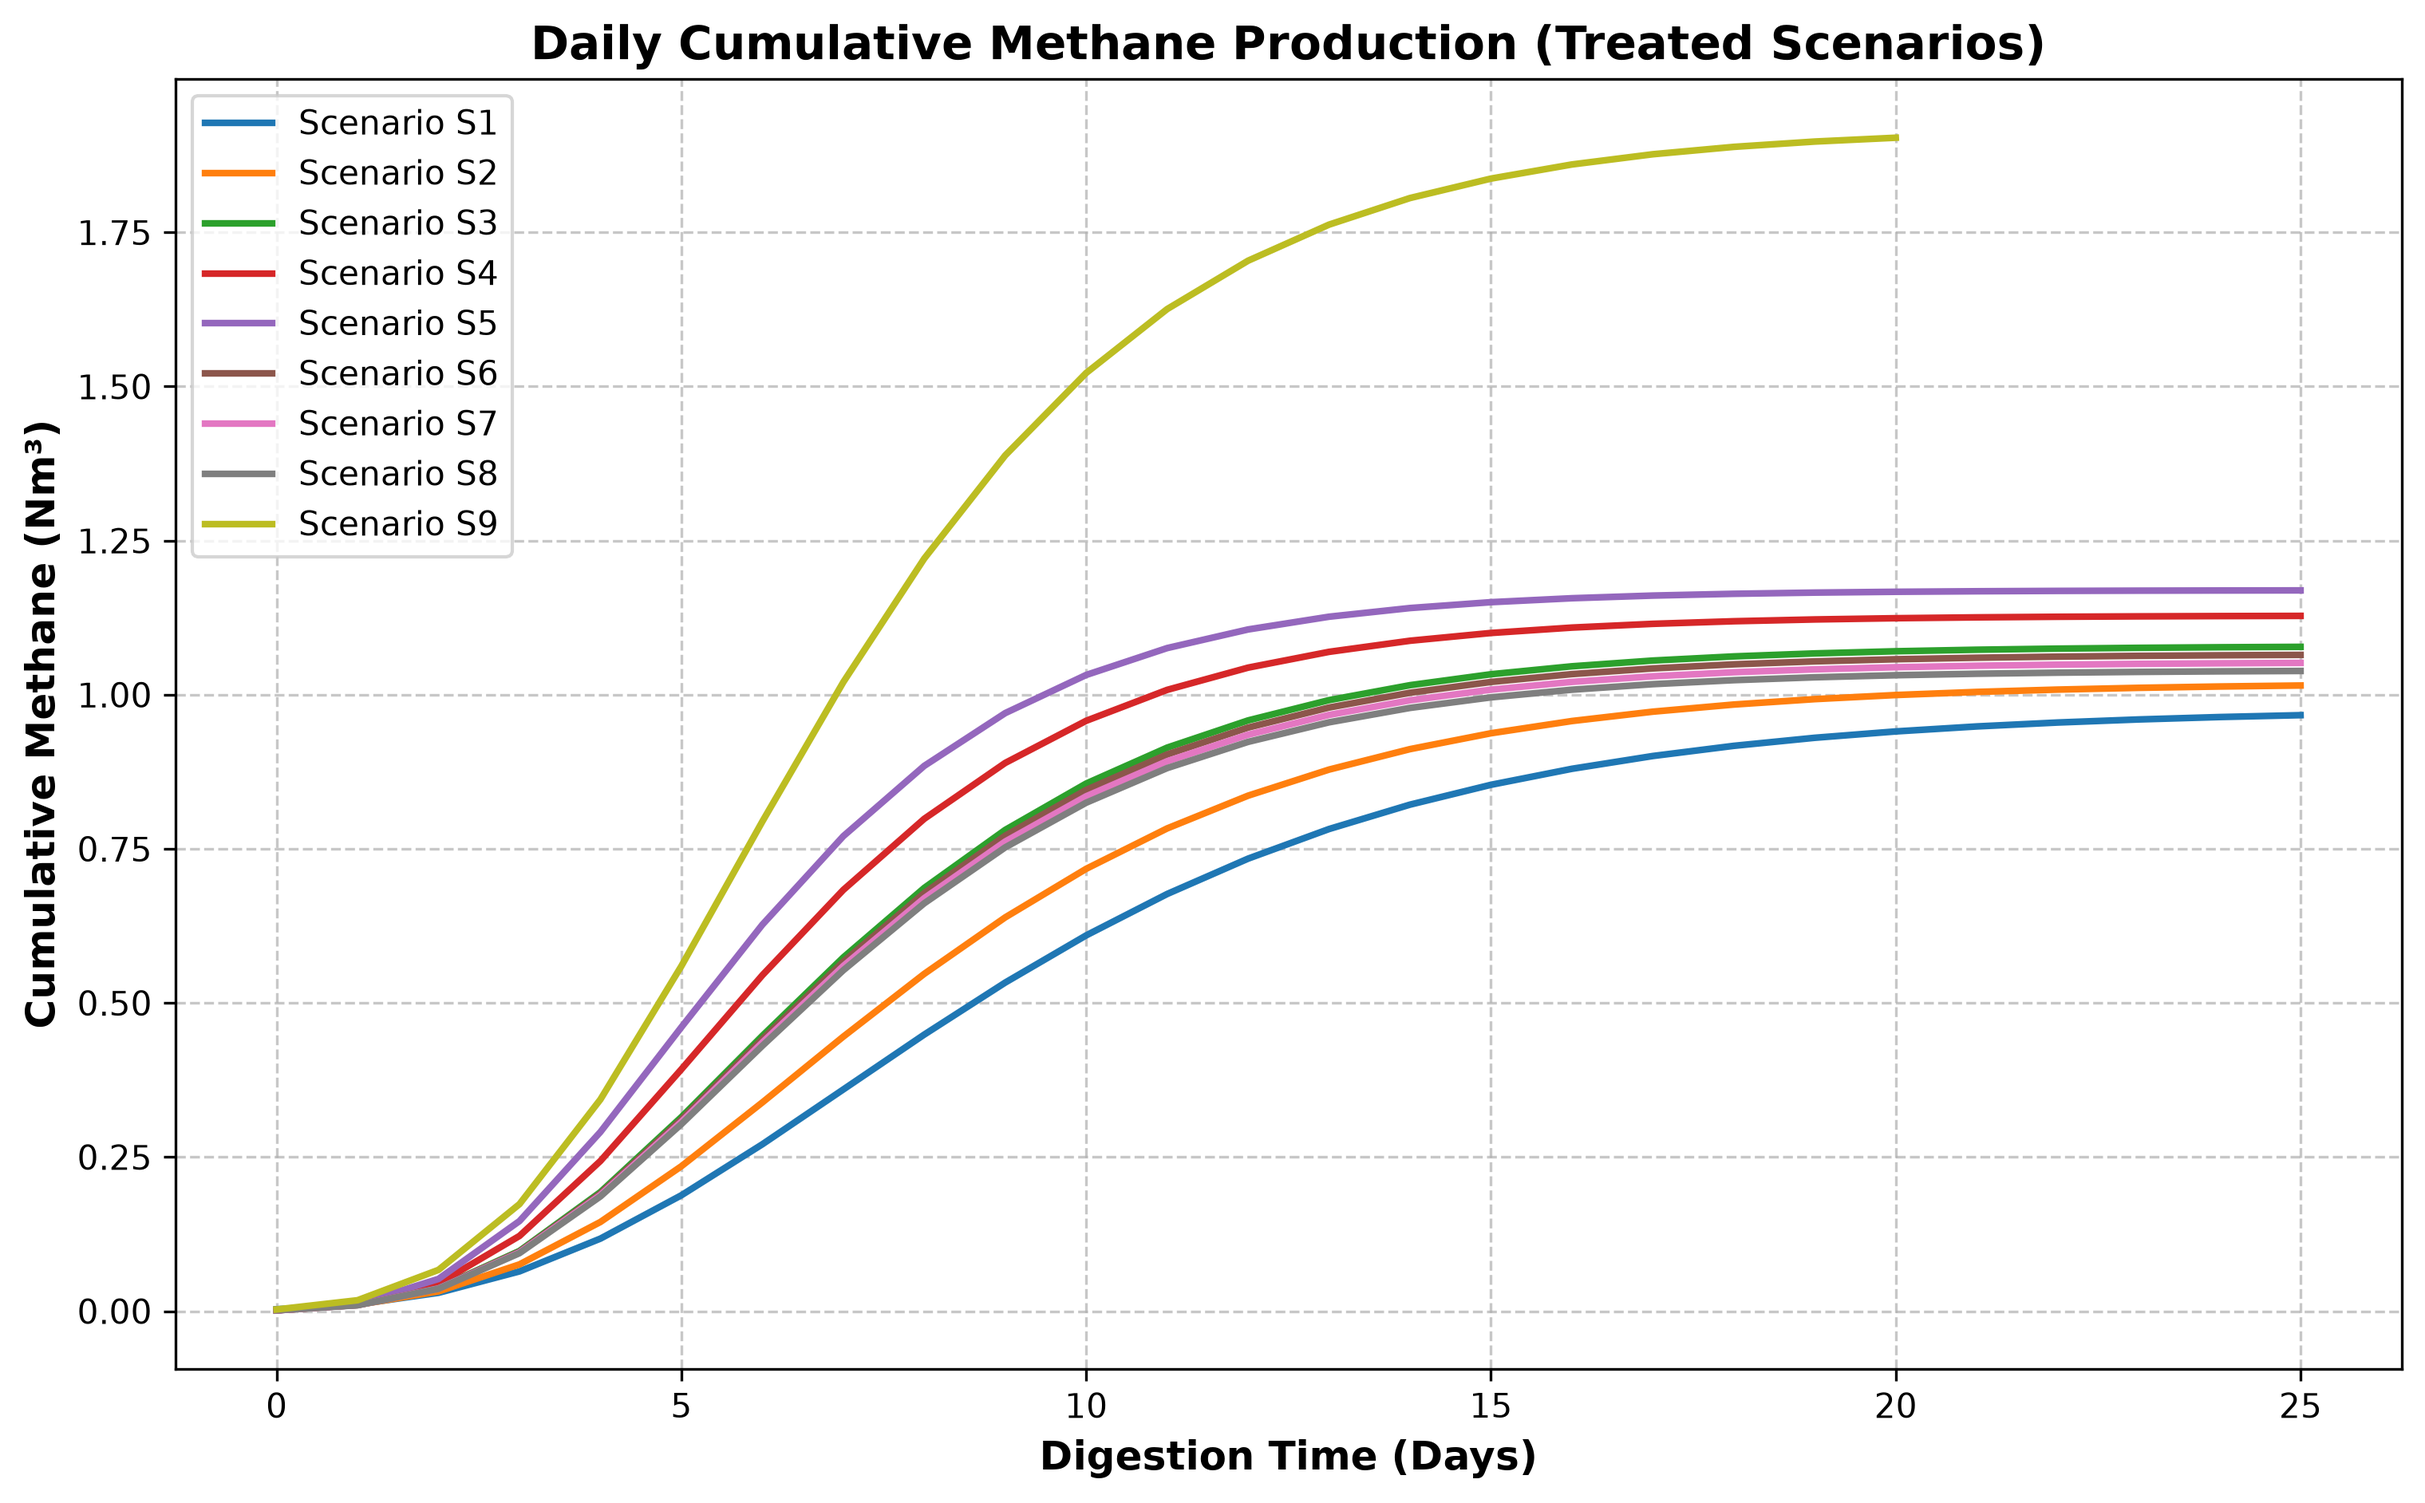
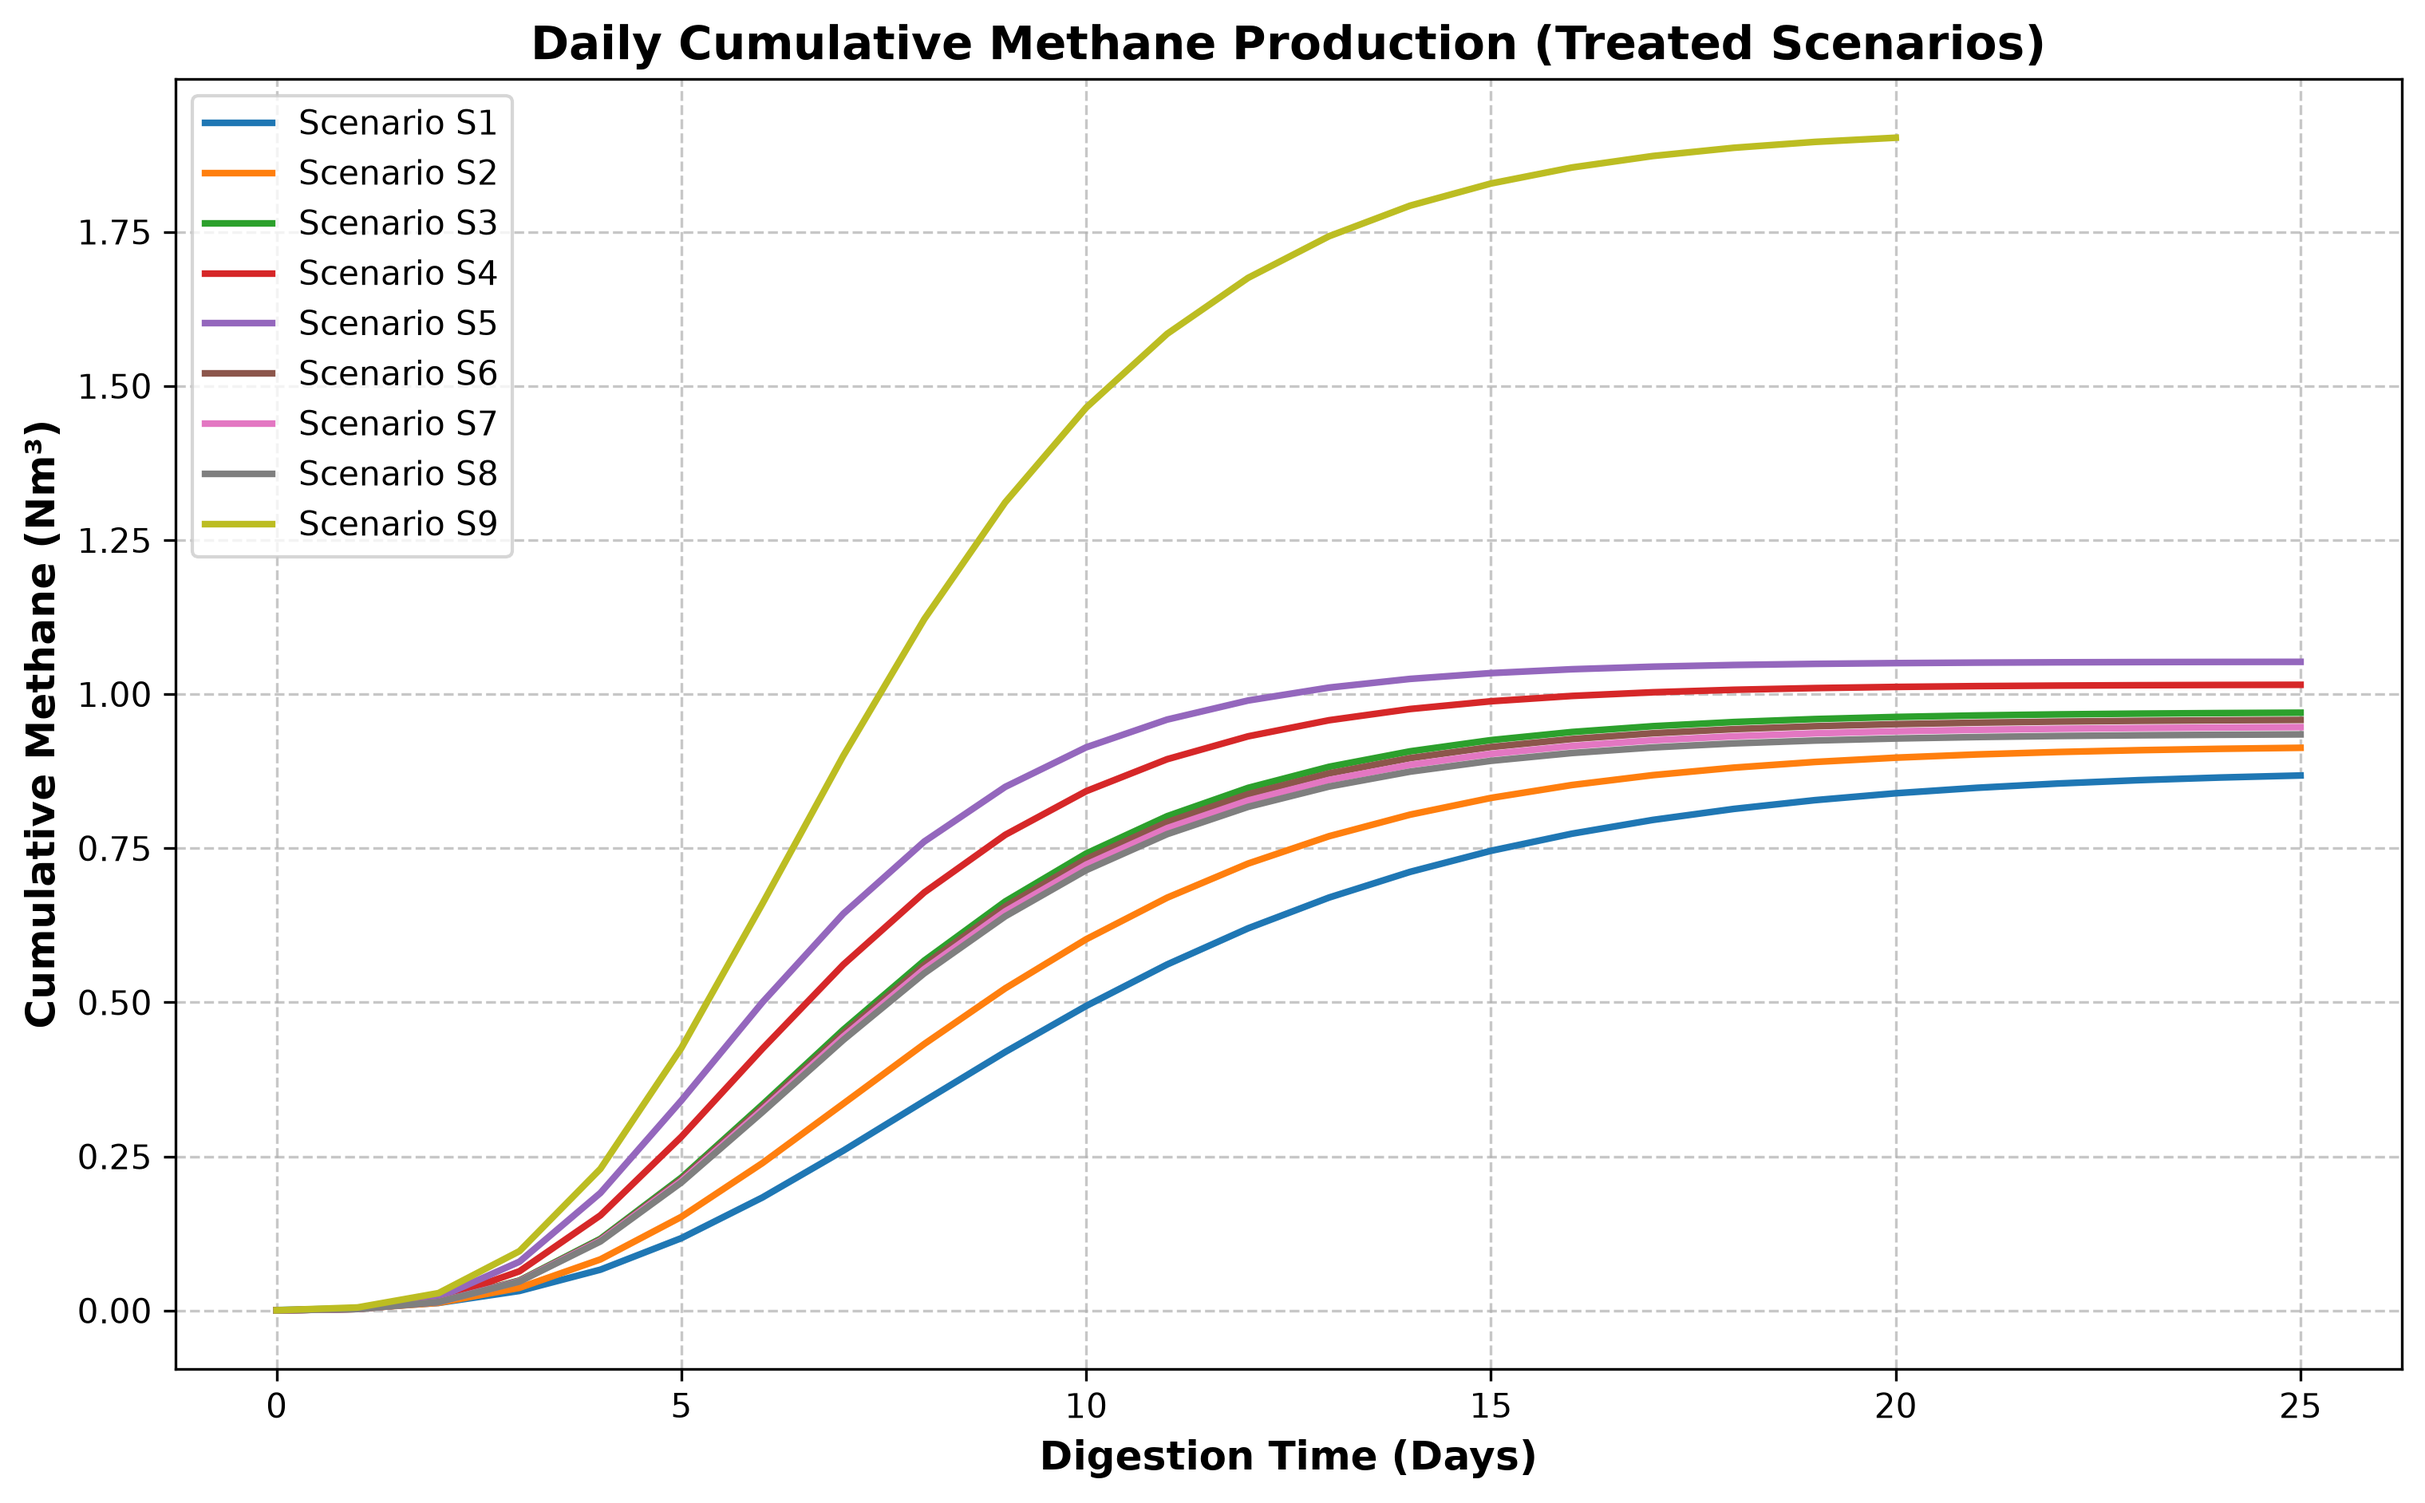
made wet mass hardcoded

diff --git a/data/config.py b/data/config.py
@@ -66,19 +66,18 @@ PRETREATMENT_CONFIG = { # directly from dr. bita's code/paper
         "weight": 0.20,
     },
 }
-# FPSI_WEIGHTS = {
-#     'carb': 0.40,    # Assumed weight
-#     'protein': 0.20, # Assumed weight
-#     'lipid': 0.10,   # Assumed weight
-#     'inert': 0.30    # Assumed weight
-# }
-FPSI_WEIGHTS = { # team assumption
-    'carb': 0.25,
+FPSI_WEIGHTS = {
+    'carb': 0.35,
     'protein': 0.25,
-    'lipid': 0.25,
-    'inert': 0.25
+    'lipid': 0.20,
+    'inert': 0.20
 }
-
+# FPSI_WEIGHTS = { # team assumption
+#     'carb': 0.25,
+#     'protein': 0.25,
+#     'lipid': 0.25,
+#     'inert': 0.25
+# }
 # ==========================================
 # 4. DIGESTER BASELINES & CALIBRATION
 # ==========================================
@@ -86,7 +85,7 @@ DIGESTER_BASELINES = {
     'scod': 18000.0, # from Dr. Bita's sim - ! VERIFY UNIT
     'k_hyd': 0.25,   # from Dr. Bita's sim - baseline hydrolysis rate (d^-1)
     'ch4_fraction_control': 0.60, # ! VERIFY - 0.50-0.70 range from dr. bita's paper 2.2.4. modelled CH4 fraction in raw biogas
-    'lag_phase': 3.0,# ! Assumed baseline lag phase (days)
+    'lag_phase': 3.8,# from Dr. Bita's sim
     'b_control': {   # ! Assumed baseline biodegradability factors
         'carb': 0.85, 
         'protein': 0.75, 

diff --git a/main.py b/main.py
@@ -50,10 +50,23 @@ def main():
     for scenario in scenarios:
         
         # back-calculate Feedstock Wet Mass based on daily OLR. 
-        m_vs_daily = scenario["olr"] * REACTOR_VOL
-        m_wet_daily = m_vs_daily / (F_TS * F_VS_TS)
+        # m_vs_daily = scenario["olr"] * REACTOR_VOL
+        # m_wet_daily = m_vs_daily / (F_TS * F_VS_TS)
+
+        m_wet_daily = 10.0
+        m_vs_daily = m_wet_daily * F_TS * F_VS_TS
+
+        # calculate the true OLR based on the fixed wet mass
+        # 10.0 * 0.25 * 0.90 = 2.25 kg VS per day
+        current_olr = m_vs_daily / REACTOR_VOL
         
-        # convert SCG percentage (e.g., 10.0) to fractions (e.g., 0.10) for the Feedstock class
+        # EXCEPTION: If the scenario explicitly calls for a high OLR
+        if scenario["olr"] > 2.5:
+            current_olr = scenario["olr"]
+            m_vs_daily = current_olr * REACTOR_VOL
+            m_wet_daily = m_vs_daily / (F_TS * F_VS_TS)
+            
+        # convert SCG percentage to fractions for the Feedstock class
         scg_fraction = scenario["scg"] / 100.0
         
         # map the universal enzyme dose from the scenario to all specific classes
